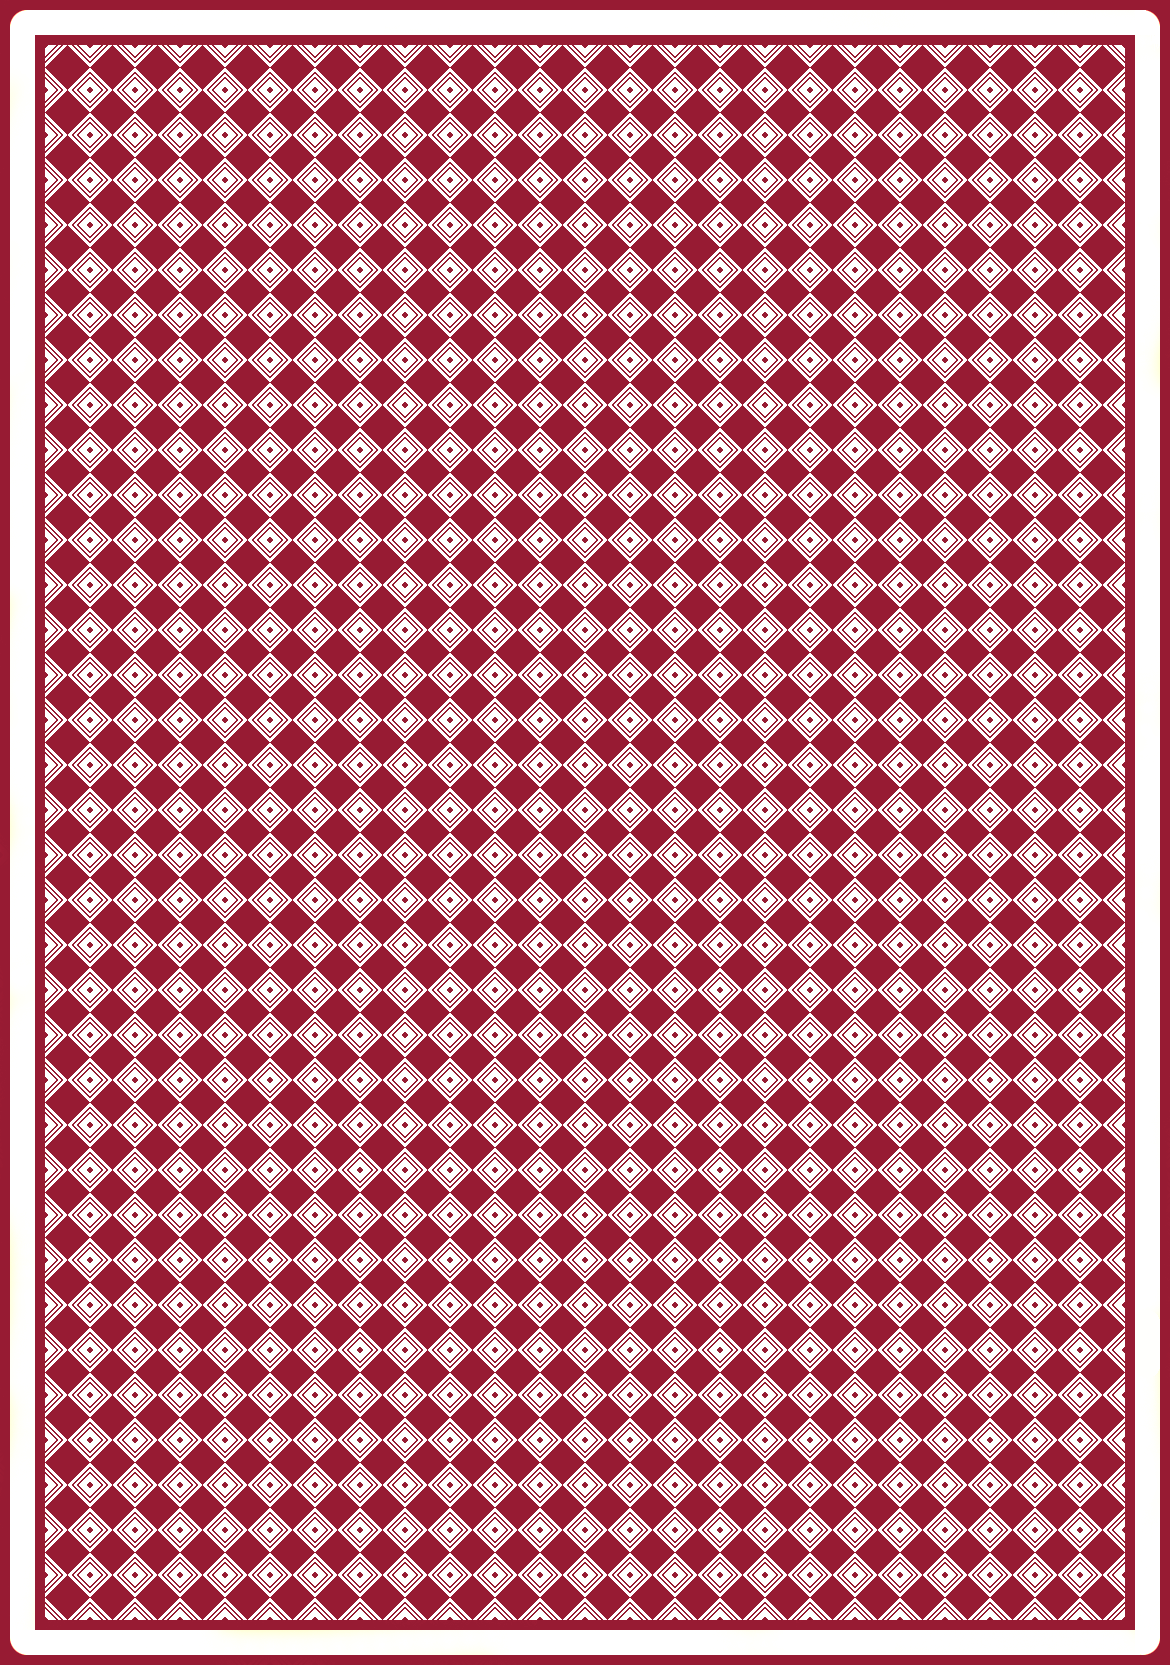
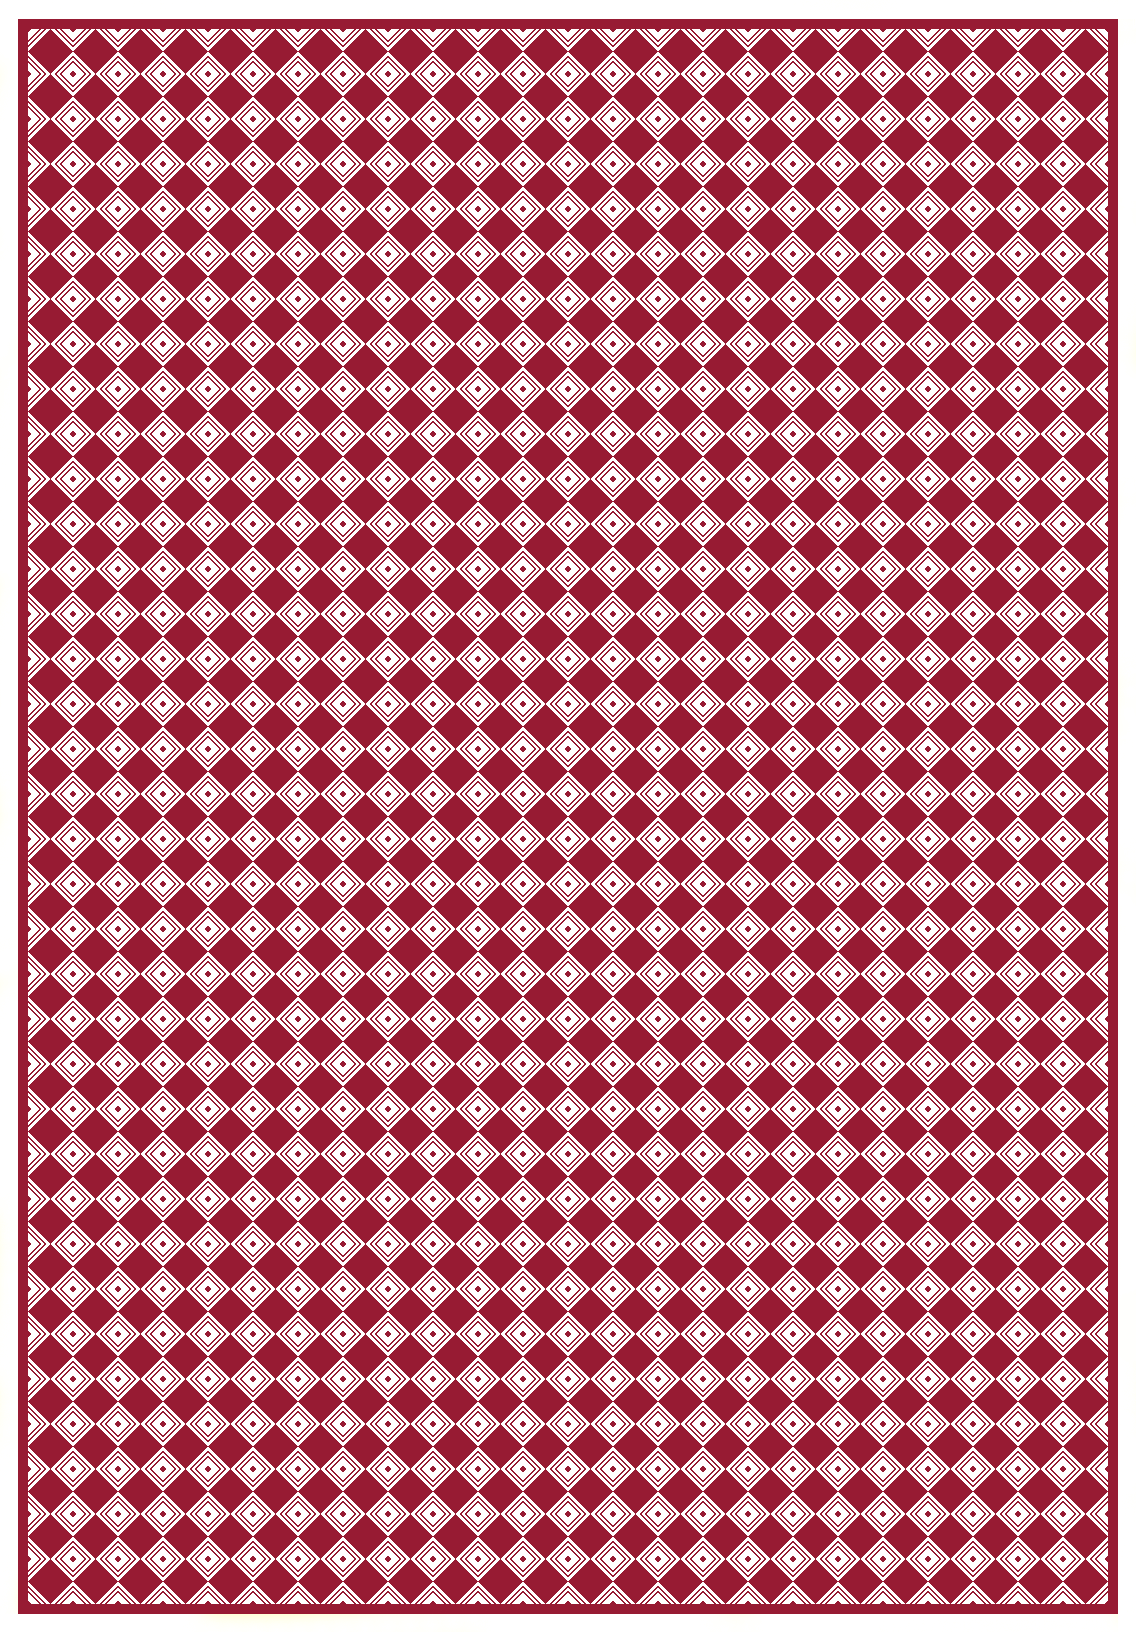
Game GUI Design
Implemented the default game React components and CSS

diff --git a/samhdr-app/src/App.css b/samhdr-app/src/App.css
@@ -240,28 +240,38 @@
     cursor: pointer;
 }
 .card {
-    background-color: antiquewhite;
+    
     width: 117px;
     height: 167px;
-    border-style: solid;
-    border-width: 5px;
+  
     border-radius: 10px;
     margin-bottom: 2%;
+    margin-left: auto;
+    margin-right: auto;
+}
+.card:hover {
+ 
+    border-color: goldenrod;
+}
+.card--inner{
+    margin-top: 5%;
+    height: 167px;
+    
 }
 
 .card--top-num-container{
     margin-left:auto;
-    margin-right: 5%;
+    margin-right: 10%;
     width: 20%;
-    margin-top: -20%;
+    margin-top: -15%;
     
 }
 .card--bottom-num-container{
  
     width: 20%;
     rotate: 180deg;
-    margin-left: 5%;
-    margin-top: -20%;
+    margin-left: 10%;
+    margin-top: -25%;
     
 }
 .card--num {
@@ -278,49 +288,230 @@
 .card--main-symbol{
    
     width: 60%;
-    margin-top: -5%;
+    margin-top: -10%;
     margin-bottom: -5%;
     margin-left:20%;
+}
+.card-suit--1{
+    height: 167px;
+    border-color: antiquewhite ;
+    border-style: solid;
+    border-width: 5px;
+    border-radius: 10px;
+    
+
 }
 
 .card-suit-0 > div {
     color: #b00421;
 }
+.card-suit-0 {
+    height: 167px;
+    background-color: antiquewhite;
+    border-color: antiquewhite ;
+    border-style: solid;
+    border-width: 5px;
+    border-radius: 10px;
+    background-image: url('assets/card_back_red.png');
+   
+    background-size: 310%;
+    background-position: center;
+}
 .card-suit-1 > div {
     color: #b00421;
 }
+.card-suit-1 {
+    background-color: antiquewhite;
+    border-color: #b00421 ;
+    border-style: solid;
+    border-width: 5px;
+    border-radius: 10px;
+}
+.card-suit-1:hover {
+    border-color: #690213 ;
+}
 .card-suit-2 > div {
-    color: #ff6003;
+    color: #ff6003
+}
+.card-suit-2 {
+    background-color: antiquewhite;
+    border-color: #ff6003 ;
+    border-style: solid;
+    border-width: 5px;
+    border-radius: 10px;
+}
+.card-suit-2:hover {
+    border-color: #933803 ;
 }
 .card-suit-3 > div {
     color: #ffb303;
+
+}
+.card-suit-3 {
+    background-color: antiquewhite;
+    border-color: #ffb303 ;
+    border-style: solid;
+    border-width: 5px;
+    border-radius: 10px;
+}
+.card-suit-3:hover {
+    border-color: #906603 ;
 }
 .card-suit-4 > div {
     color: #17ad00;
 }
+.card-suit-4 {
+    background-color: antiquewhite;
+    border-color: #17ad00 ;
+    border-style: solid;
+    border-width: 5px;
+    border-radius: 10px;
+}
+.card-suit-4:hover {
+    border-color: #0d5f00   ;
+}
 .card-suit-5 > div {
     color: #034ec7;
+}
+.card-suit-5 {
+    background-color: antiquewhite;
+    border-color: #034ec7 ;
+    border-style: solid;
+    border-width: 5px;
+    border-radius: 10px;
+}
+.card-suit-5:hover {
+    border-color: #022a6a   ;
 }
 .card-suit-6 > div {
     color: #7836d4;
 }
+.card-suit-6 {
+    background-color: antiquewhite;
+    border-color: #7836d4 ;
+    border-style: solid;
+    border-width: 5px;
+    border-radius: 10px;
+}
+.card-suit-6:hover {
+    border-color: #3e1c6e  ;
+}
 
 .card--back{
     width: 100%;
+    height: 100%;
+    background-size: cover;
 }
 .test--card-display{
     display: flexbox;
     width: 500px;
     
 }
+.game {
+    width: 100%;
+    border-style: solid;
+    border-width: 5px;
+    border-color: antiquewhite;
+    border-radius: 30px;
+    margin-left: 5%;
+    margin-right: 5%;
+    margin-bottom: 5%;
+    padding-top: 2.5%;
+
+}
 .game--opponent-hand {
     display: flex;
-    padding-left: 2.5%;
-    padding-right: 2.5%;
+   
+    width: 60%;
+    min-width: 60%;
+    margin-left: 20%;
+    margin-right: 20%;
+  
+    
 }
 .game--player-hand {
     display: flex;
-    padding-left: 2.5%;
+    
     padding-right: 2.5%;
+    width: 60%;
+    min-width: 60%;
+    margin-left: 20%;
+    margin-right: 20%;
+}
+
+.game--stats-bar{
+    display: flex;
+    align-items: center;
+    background-color:#132138;
+    width: 80%;
+    height: 10%;
+    border-style: solid;
+    border-width: 5px;
+    border-color: antiquewhite;
+    border-radius: 30px;
+    margin-left: 5%;
+    margin-right: 5%;
+    margin-bottom: 5%;
+    padding-left: 5%;
+    padding-right: 5%;
+}
+.game--stat-img{
+    height: 35px;
+    width: 35px;
+    margin-left: auto;
+    margin-right: 1%;
+}
+
+.game--control-bar{
+    display: flex;
+    padding-left: 5%;
+    padding-right: 5%;
+}
+.game--control{
+    background-color:#132138;
+    border-color: antiquewhite ;
+    border-style: solid;
+    border-width: 5px;
+    border-radius: 20px;
+    padding-top: 1%;
+    padding-bottom: 1%;
+    width: 25%;
+    height: 100%;
+    text-align: center;
+    margin-left: auto;
+    margin-right: auto;
+    cursor: pointer;
+    -webkit-user-select: none; /* Safari */        
+    -moz-user-select: none; /* Firefox */
+    -ms-user-select: none; /* IE10+/Edge */
+    user-select: none; /* Standard */
+}
+.game--control:hover{
+    border-color: goldenrod;
+    color: goldenrod;
+}
+.game--control:active{
+    border-color: rgb(218, 97, 32);
+    color: rgb(218, 97, 32);
+}
+.game--control-disabled{
+    background-color:#132138;
+    border-color: rgb(80, 80, 80) ;
+    color: rgb(80, 80, 80);
+    border-style: solid;
+    border-width: 5px;
+    border-radius: 20px;
+    padding-top: 1%;
+    padding-bottom: 1%;
+    width: 25%;
+    height: 100%;
+    text-align: center;
+    margin-left: auto;
+    margin-right: auto;
+    cursor: pointer;
+    -webkit-user-select: none; /* Safari */        
+    -moz-user-select: none; /* Firefox */
+    -ms-user-select: none; /* IE10+/Edge */
+    user-select: none; /* Standard */
 }
 

diff --git a/samhdr-app/src/components/CardGame.js b/samhdr-app/src/components/CardGame.js
@@ -1,6 +1,8 @@
 import "../App.css"
 import React from "react"
 import Card from "./Card.js"
+import GameStatsBar from "./GameStatsBar.js"
+import GameControlsBar from "./GameControlsBar.js"
 
 function CardGame(props){
    
@@ -34,8 +36,9 @@ function CardGame(props){
 
     return (
         <div className="game">
-            <h1>Game!</h1>
-            <div className="game--opponent-stats"></div>
+            <div className="game--opponent-stats">
+                <GameStatsBar />
+            </div>
             <div className="game--opponent-hand">
                 <Card suit={0} value={1}/>
                 <Card suit={0} value={1}/>
@@ -44,7 +47,9 @@ function CardGame(props){
                 <Card suit={0} value={1}/>
             </div>
             <div className="game--opponent-active-card"></div>
+                <Card suit={-1} value={1}/>
             <div className="game--player-active-card"></div>
+                <Card suit={-1} value={1}/>
             <div className="game--player-hand">
                 <Card suit={hand[0].suit} value={hand[0].value}/>
                 <Card suit={hand[1].suit} value={hand[1].value}/>
@@ -53,7 +58,10 @@ function CardGame(props){
                 <Card suit={hand[4].suit} value={hand[4].value}/>
             </div>
             <div className="game--player-moves"></div>
-            <div className="game--player-stats"></div>
+                <GameControlsBar />
+            <div className="game--player-stats">
+                <GameStatsBar />
+            </div>
         </div>
     )
 }

diff --git a/samhdr-app/src/components/GameStatsBar.js b/samhdr-app/src/components/GameStatsBar.js
@@ -1,0 +1,31 @@
+import '../App.css'
+import sword_sym from '../assets/sword_symbol.png'
+import arrow_sym from '../assets/arrow_symbol.png'
+import magic_sym from '../assets/magic_symbol.png'
+import healing_sym from '../assets/healing_symbol.png'
+import defense_sym from '../assets/defense_symbol.png'
+import resist_sym from '../assets/resistance_symbol.png'
+
+function GameStatsBar(props){
+
+    const stats = props.stats
+
+    return (
+        <div className="game--stats-bar">
+            <h2 className="game--stat">Health: 50</h2>
+            <img src={sword_sym} alt="Swords: " className="game--stat-img"/>
+            <h2 className="game--stat">: 0</h2>
+            <img src={arrow_sym} alt="Arrows: " className="game--stat-img"/>
+            <h2 className="game--stat">: 0</h2>
+            <img src={magic_sym} alt="Magic: " className="game--stat-img"/>
+            <h2 className="game--stat">: 0</h2>
+            <img src={healing_sym} alt="Healing: " className="game--stat-img"/>
+            <h2 className="game--stat">: 0</h2>
+            <img src={defense_sym} alt="Defense: " className="game--stat-img"/>
+            <h2 className="game--stat">: 0</h2>
+            <img src={resist_sym} alt="Resistance: " className="game--stat-img"/>
+            <h2 className="game--stat">: 0</h2>
+        </div>
+    )
+}
+export default GameStatsBar

diff --git a/samhdr-app/src/components/Card.js b/samhdr-app/src/components/Card.js
@@ -27,6 +27,9 @@ function Card(props){
         return (
             <div className={"card"}>
             <div className="card-inner">
+            <div className={"card-suit-" + suit}>
+                    
+            </div>
             </div>
 
 
@@ -38,7 +41,6 @@ function Card(props){
             <div className={"card"}>
             <div className="card-inner">
                 <div className={"card-suit-" + suit}>
-                    <img src={symbols[suit]} alt="Swords" className="card--back"/>
                 </div>
             </div>
 

diff --git a/samhdr-app/src/components/GameControlsBar.js b/samhdr-app/src/components/GameControlsBar.js
@@ -1,0 +1,14 @@
+import '../App.css'
+
+function GameControlsBar(props){
+
+    return (
+        <div className="game--control-bar">
+            <h2 className="game--control"> PLAY CARD</h2>
+            <h2 className="game--control"> PLAY FACE DOWN</h2>
+            <h2 className="game--control"> STACK</h2>
+            <h2 className="game--control"> WILD CARD</h2>
+        </div>
+    )
+}
+export default GameControlsBar
